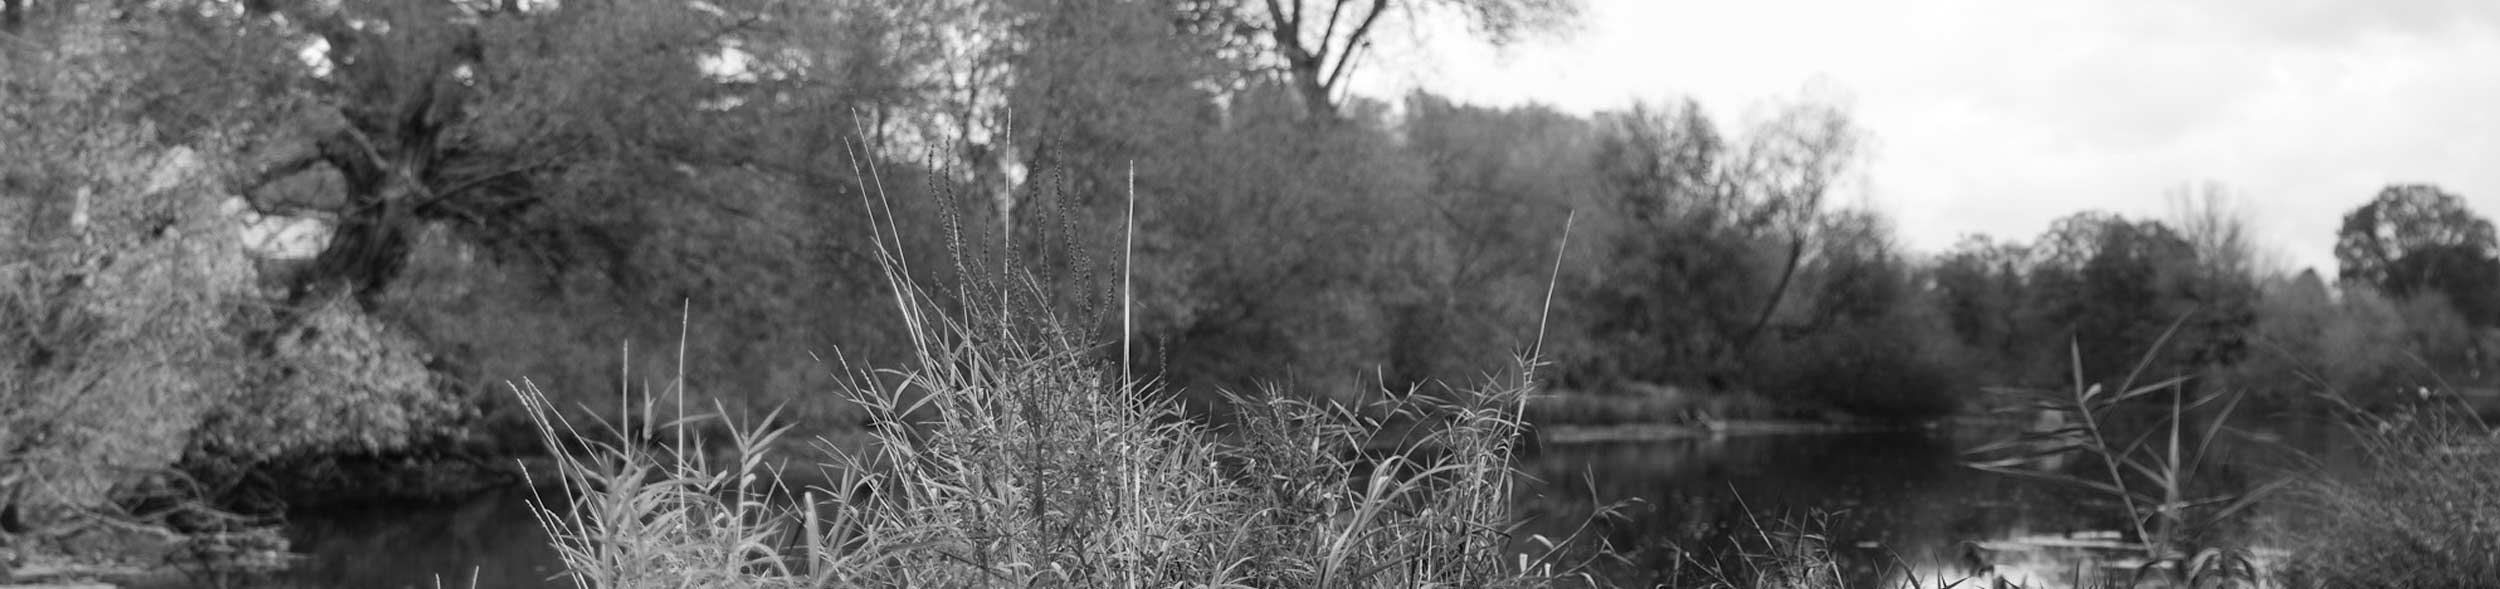
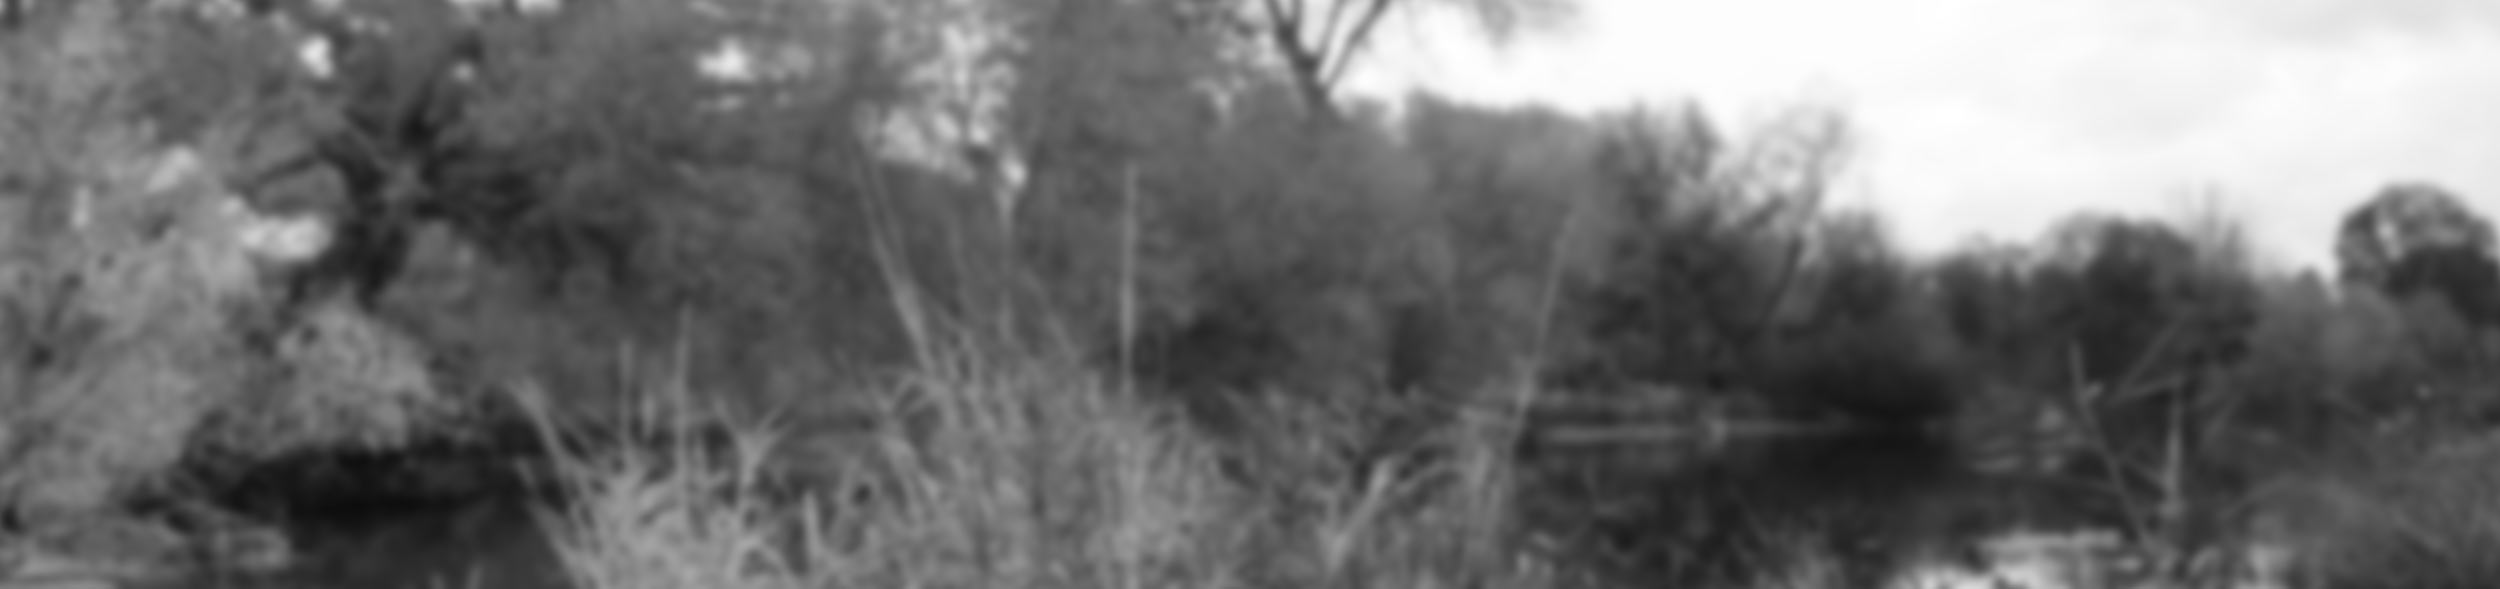
Updated billboards

diff --git a/css/main.css b/css/main.css
@@ -208,7 +208,7 @@ footer img {
 }
 
 .overeasy-billboard {
-  background-color: orange;
+  background-image: url("../images/overeasy/overeasy-billboard.jpg")
 }
 
 .saas-website-billboard {
